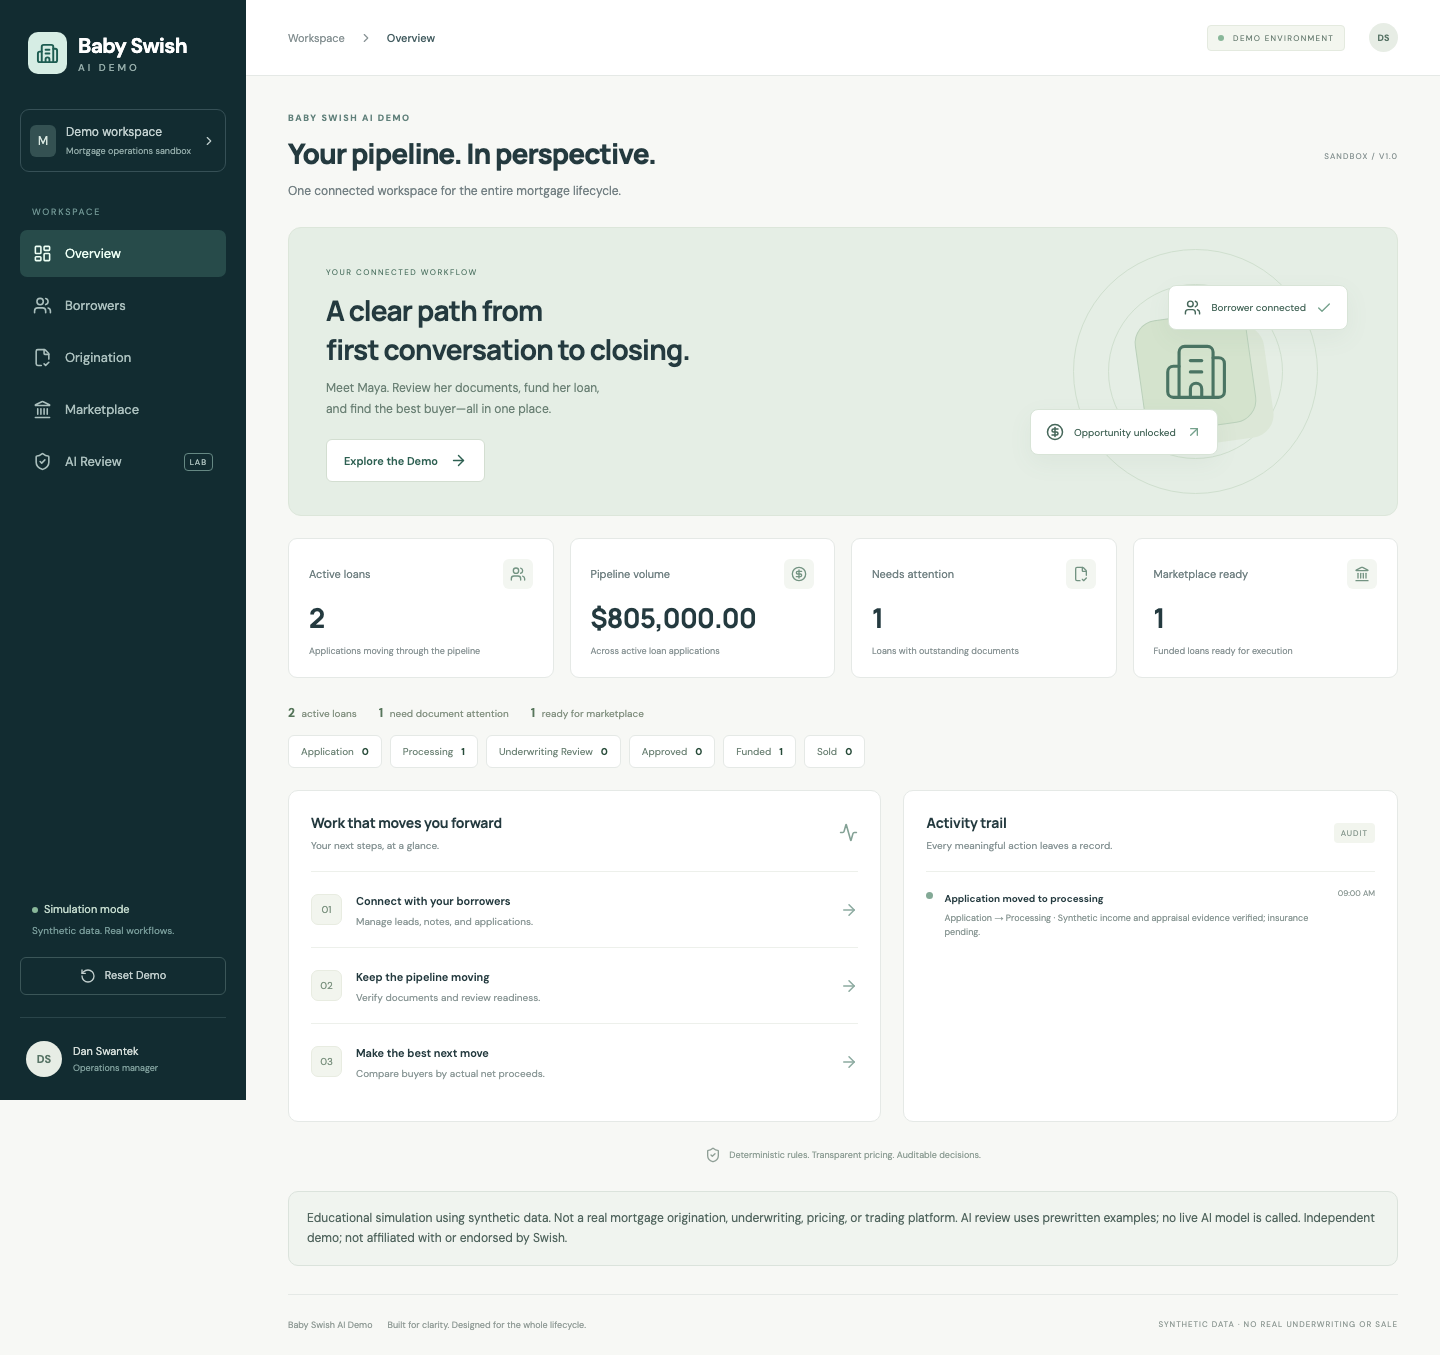
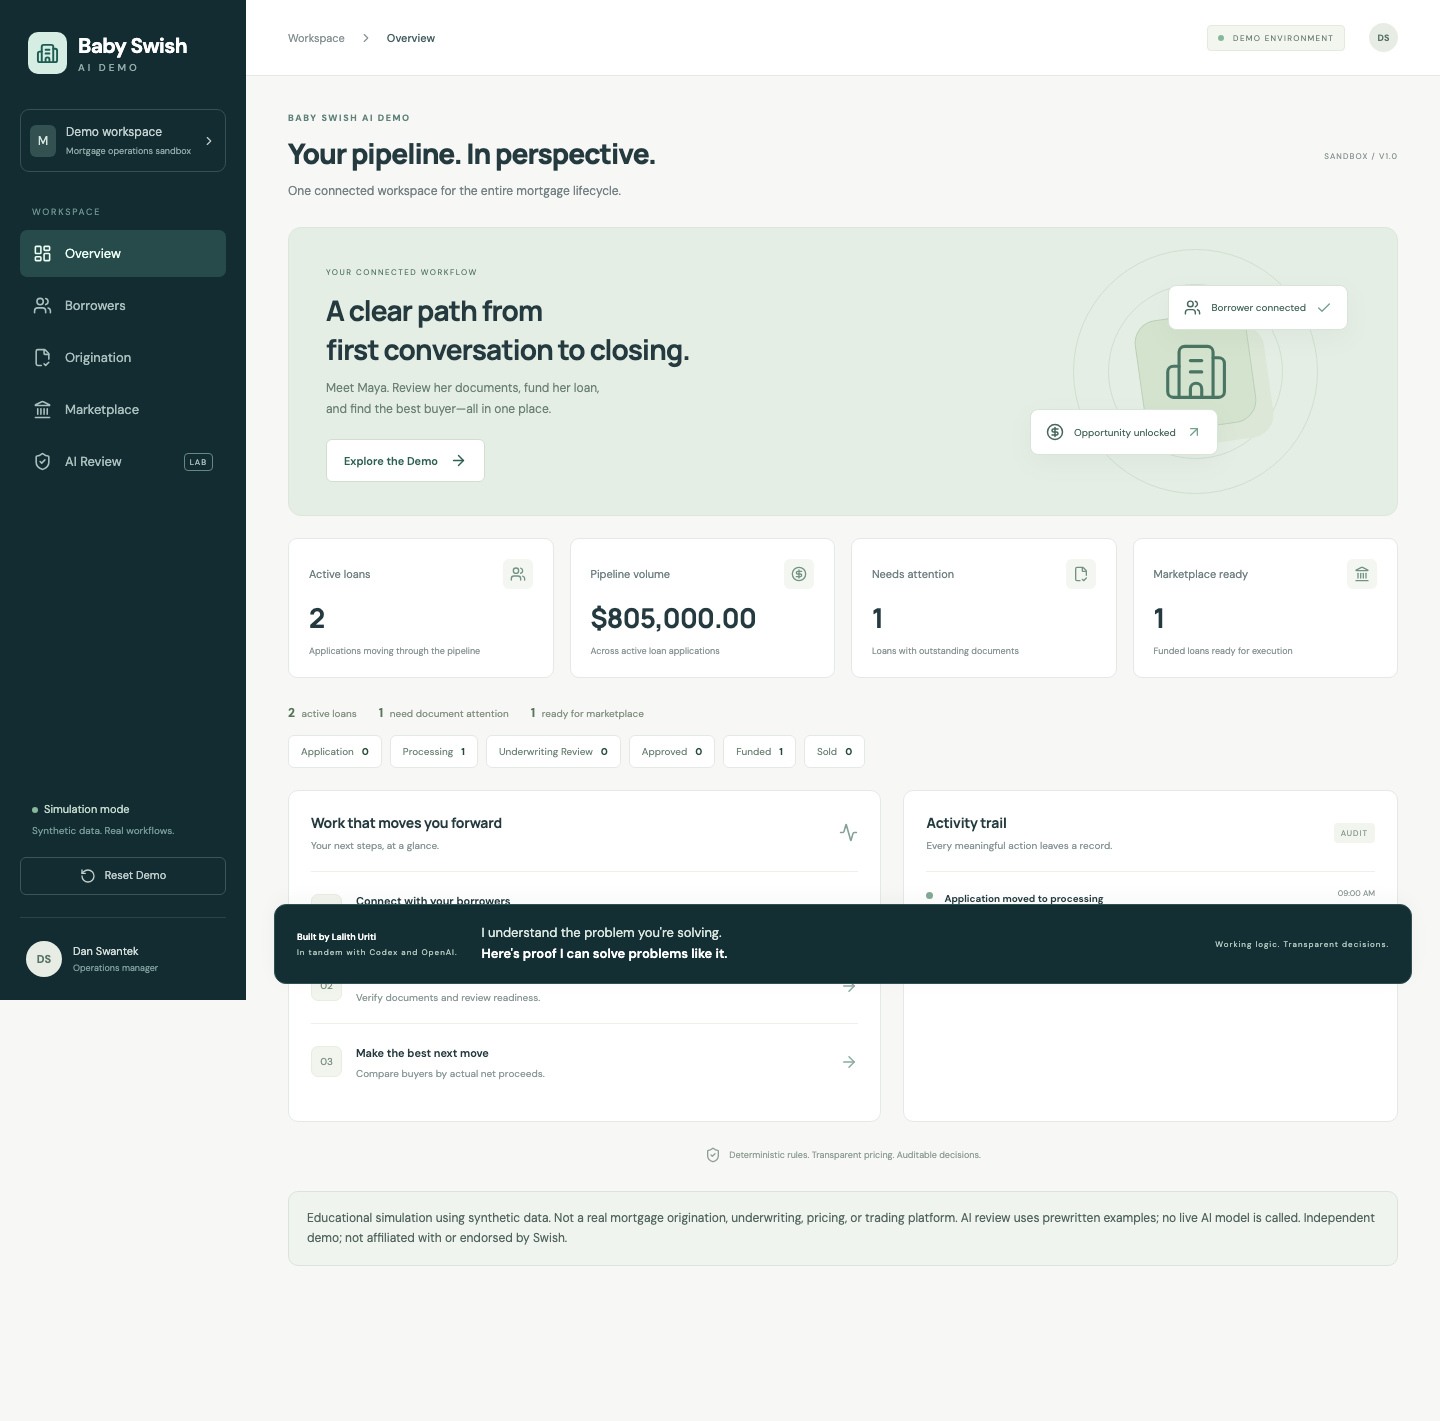
LU: use requested author statement verbatim

diff --git a/src/components/Lab.tsx b/src/components/Lab.tsx
@@ -18,7 +18,7 @@ export default function Lab(){
 {view==='Origination'&&<><div className="loan-picker"><label>Active loan<select aria-label="Select loan" value={loan.borrowerId} onChange={e=>setSelected(e.target.value)}>{state.loans.map(l=><option key={l.id} value={l.borrowerId}>{state.borrowers.find(b=>b.id===l.borrowerId)?.name} · {l.id}</option>)}</select></label><span className="badge teal">{loan.stage}</span></div><section className="card"><div className="section-head"><div><h2>{loanBorrower.name}'s loan</h2><p>{loan.id} · {loan.purpose} · {loan.occupancy}</p></div><strong className="loan-amount">{formatMoney(loan.amountCents)}</strong></div><div className="stage-track">{['Application','Processing','Underwriting Review','Approved','Funded','Sold'].map((s,i)=><div className={i<=['Application','Processing','Underwriting Review','Approved','Funded','Sold'].indexOf(loan.stage)?'stage done':'stage'} key={s}><span>{i<['Application','Processing','Underwriting Review','Approved','Funded','Sold'].indexOf(loan.stage)?<Check size={13}/>:i+1}</span><small>{s}</small></div>)}</div><div className="detail-grid four"><div><small>Credit score</small><strong>{loan.creditScore}</strong></div><div><small>Debt-to-income</small><strong>{loan.dti}%</strong></div><div><small>Loan-to-value</small><strong>{(loan.amountCents/loan.propertyValueCents*100).toFixed(1)}%</strong></div><div><small>Interest rate</small><strong>{(loan.rateBps/100).toFixed(2)}%</strong></div><div><small>Property value</small><strong>{formatMoney(loan.propertyValueCents)}</strong></div><div><small>Term</small><strong>{loan.termMonths / 12} years</strong></div></div></section><div className="overview-grid"><section className="card"><div className="section-head"><div><h2>Document checklist</h2><p>Verify each document before underwriting.</p></div><FileCheck2 size={20}/></div>{(['income','appraisal','insurance'] as const).map(k=><div className="document-row" key={k}><span className={loan.documents[k]?'doc-icon complete':'doc-icon'}><FileCheck2 size={19}/></span><div><strong>{k.charAt(0).toUpperCase()+k.slice(1)}</strong><small>{loan.documents[k]?'Verified and ready':'Verification required'}</small></div>{loan.documents[k]?<span className="verified"><Check size={14}/>Verified</span>:<button className="button secondary compact" onClick={()=>lab.verifyDocument(loan.id,k)}>Verify {k}</button>}</div>)}</section><section className="card"><div className="section-head"><div><h2>Next stage</h2><p>Rules keep every transition accountable.</p></div><ArrowUpRight size={20}/></div><div className="next-stage"><span className="eyebrow">CURRENTLY IN</span><h3>{loan.stage}</h3><p>{transition?.reason || 'This simulated loan has completed its lifecycle.'}</p>{nextStage(loan.stage)&&loan.stage!=='Funded'?<button className="button" disabled={!transition?.allowed} title={transition?.reason} onClick={()=>lab.advanceLoan(loan.id)}>Advance to {nextStage(loan.stage)} <ArrowRight size={16}/></button>:loan.stage==='Funded'?<button className="button" onClick={()=>{lab.listLoan(loan.id);navigate('Marketplace')}}>List on Marketplace <ArrowRight size={16}/></button>:<span className="badge teal">Workflow complete</span>}</div></section></div></>}
 {view==='Marketplace'&&<><div className="loan-picker"><label>Loan for execution<select aria-label="Marketplace loan" value={loan.borrowerId} onChange={e=>setSelected(e.target.value)}>{state.loans.map(l=><option key={l.id} value={l.borrowerId}>{state.borrowers.find(b=>b.id===l.borrowerId)?.name} · {formatMoney(l.amountCents)}</option>)}</select></label>{loan.stage==='Funded'&&!loan.listed&&<button className="button secondary compact" onClick={()=>lab.listLoan(loan.id)}>Submit funded loan</button>}<span className="badge">{loan.listed?'Listed for sale':'Not listed'}</span></div>{best&&<div className="recommendation"><div className="recommend-icon"><Sparkles/></div><div><span className="eyebrow">BEST NET EXECUTION</span><h2>{best.buyer}</h2><p>Recommended offer{ranked[1]&&best.netCents>ranked[1].netCents?<> — {formatMoney(best.netCents-ranked[1].netCents)} higher net proceeds than the next eligible alternative.</>:<> · highest eligible net proceeds.</>}</p></div><div className="recommend-total"><small>Net proceeds</small><strong>{formatMoney(best.netCents)}</strong></div><button className="button" disabled={!!loan.acceptedOfferId||loan.stage!=='Funded'||!loan.listed} onClick={()=>lab.acceptOffer(loan.id,best.id)}>{loan.acceptedOfferId?'Offer accepted':'Accept recommended offer'} <ArrowRight size={16}/></button></div>}<section className="card"><div className="section-head"><div><h2>Buyer comparison</h2><p>Edit quotes to see the recommendation update in real time.</p></div><span className="tiny-pill">NET PROCEEDS RANKING</span></div><div className="table-scroll"><table><thead><tr><th>Buyer</th><th>Quote (% of par)</th><th>Fee ($)</th><th>Gross proceeds</th><th>Net proceeds</th><th>Settlement</th><th>Eligibility</th></tr></thead><tbody>{[...ranked,...state.offers.filter(o=>!o.eligible).map(o=>priceOffer(loan,o))].map((o,i)=><tr key={o.id}><td><strong>{o.buyer}</strong><small>{o.conditions}</small>{i===0&&<span className="best-tag">BEST EXECUTION</span>}</td><td><input aria-label={`${o.buyer} quote`} type="number" min="0" max="200" disabled={state.loans.some(l=>l.stage==='Sold')} step="0.01" value={o.priceBps/100} onChange={e=>lab.updateOffer(o.id,{priceBps:Math.round(Number(e.target.value)*100)})}/></td><td><input aria-label={`${o.buyer} fee`} type="number" min="0" max="1000000" step="0.01" disabled={state.loans.some(l=>l.stage==='Sold')} value={o.feeCents/100} onChange={e=>lab.updateOffer(o.id,{feeCents:Math.round(Number(e.target.value)*100)})}/></td><td>{formatMoney(o.grossCents)}</td><td className="money">{formatMoney(o.netCents)}</td><td>{o.settlementDays} days</td><td><span className={`badge ${o.eligible?'teal':''}`}>{o.eligible?'Eligible':'Ineligible'}</span></td></tr>)}</tbody></table></div></section><p className="formula-note">Gross proceeds = unpaid principal balance × quoted price ÷ 100. Net proceeds = gross proceeds − explicit fees. Gross rounds half-up to the nearest cent before fees are deducted. Only eligible offers enter the ranking. Quotes are shared simulation assumptions and lock after an acceptance.</p></>}
 {view==='AI Review'&&<div className="split-grid"><section className="card"><div className="section-head"><div><h2>Recommendation inspector</h2><p>Test a proposal before it becomes an action.</p></div><ShieldCheck size={20}/></div><p className="formula-note">Schema: bid uses loanId + offerId; transition uses loanId + target stage; arithmetic uses loanId + offerId + integer netCents. Fixtures are checked against current state.</p><label className="field">Recommendation fixture<select aria-label="Recommendation fixture" value={fixture} onChange={e=>{setFixture(e.target.value);const f=fixtures.find(f=>f.id===e.target.value);if(f)setJson(JSON.stringify(f.output,null,2));setResult(null)}}><option value="">Choose a test fixture</option>{fixtures.map(f=><option key={f.id} value={f.id}>{f.label}</option>)}</select></label><label className="field">Structured recommendation<textarea className="code-input" aria-label="Structured recommendation" rows={13} value={json} onChange={e=>setJson(e.target.value)} placeholder={'{\n  "kind": "bid",\n  "loanId": "l1",\n  "offerId": "…"\n}'}/></label><button className="button" onClick={validate}>Validate recommendation <ShieldCheck size={16}/></button></section><section className="card"><div className="section-head"><div><h2>Validation results</h2><p>Independent checks against current loan state.</p></div></div>{result?<div className={`validation-result ${result.valid?'valid':'invalid'}`}><span className="result-icon"><ShieldCheck size={28}/></span><h3>{result.valid?'Recommendation verified':'Recommendation blocked'}</h3><p>{result.valid?'All deterministic checks passed.':`${result.findings.length} issue${result.findings.length===1?'':'s'} found.`}</p>{result.findings.map((f,i)=><div className="finding" key={i}><strong>{f.code}</strong><p>{f.message}</p></div>)}<div className="expected"><small>EXPECTED OUTCOME</small><p>{result.expected}</p></div></div>:<div className="empty-state"><ShieldCheck size={42} strokeWidth={1}/><h3>Verification starts here</h3><p>Load a fixture or paste a structured recommendation, then run the validator.</p></div>}<div className="review-note"><strong>A review layer, with clear boundaries.</strong><p>These are prewritten AI output fixtures; no live model is called. Validation evaluates the proposal. It does not execute a sale or advance a loan.</p></div></section></div>}
-{view!=='Overview'&&<section className="card activity-section"><div className="section-head"><div><h2>Audit trail</h2><p>A shared record across every workspace.</p></div></div><Audit events={state.events.slice(0,5)}/></section>}<p className="demo-disclaimer">Educational simulation using synthetic data. Not a real mortgage origination, underwriting, pricing, or trading platform. AI review uses prewritten examples; no live AI model is called. Independent demo; not affiliated with or endorsed by Swish.</p><footer className="builder-footer"><div><strong>Built by Lalith Uriti</strong><span>In tandem with Codex and OpenAI.</span></div><p>I understand the problem you're solving.<br/><strong>Here's proof I can solve problems like it.</strong></p><span className="footer-proof">Working logic. Transparent decisions.</span></footer></main></div></div>
+{view!=='Overview'&&<section className="card activity-section"><div className="section-head"><div><h2>Audit trail</h2><p>A shared record across every workspace.</p></div></div><Audit events={state.events.slice(0,5)}/></section>}<p className="demo-disclaimer">Educational simulation using synthetic data. Not a real mortgage origination, underwriting, pricing, or trading platform. AI review uses prewritten examples; no live AI model is called. Independent demo; not affiliated with or endorsed by Swish.</p><footer className="builder-footer"><div><strong>Built by Lalith Uriti,</strong><span>in tandem with Codex and OpenAi Models.</span></div><p>I understand the problem you’re solving.<br/><strong>This is proof I can solve problems like it</strong></p><span className="footer-proof">Working logic. Transparent decisions.</span></footer></main></div></div>
 }
 function Metric({label,value,sub,icon,onClick}:{label:string;value:string;sub:string;icon:React.ReactNode;onClick?:()=>void}){return <button className="metric" onClick={onClick}><div className="metric-top">{label}<span>{icon}</span></div><strong>{value}</strong><p>{sub}</p></button>}
 function Audit({events}:{events:{id:string;action:string;time:string;reason:string;previousState:string;newState:string}[]}){return <div className="audit-list">{events.length?events.map(e=><div className="audit-row" key={e.id}><span className="audit-dot"/><div><strong>{e.action}</strong><small>{e.previousState} → {e.newState}{e.reason?` · ${e.reason}`:''}</small></div><time>{new Date(e.time).toLocaleTimeString('en-US',{hour:'2-digit',minute:'2-digit'})}</time></div>):<div className="empty-audit">Your activity will appear here as you explore the demo.</div>}</div>}
